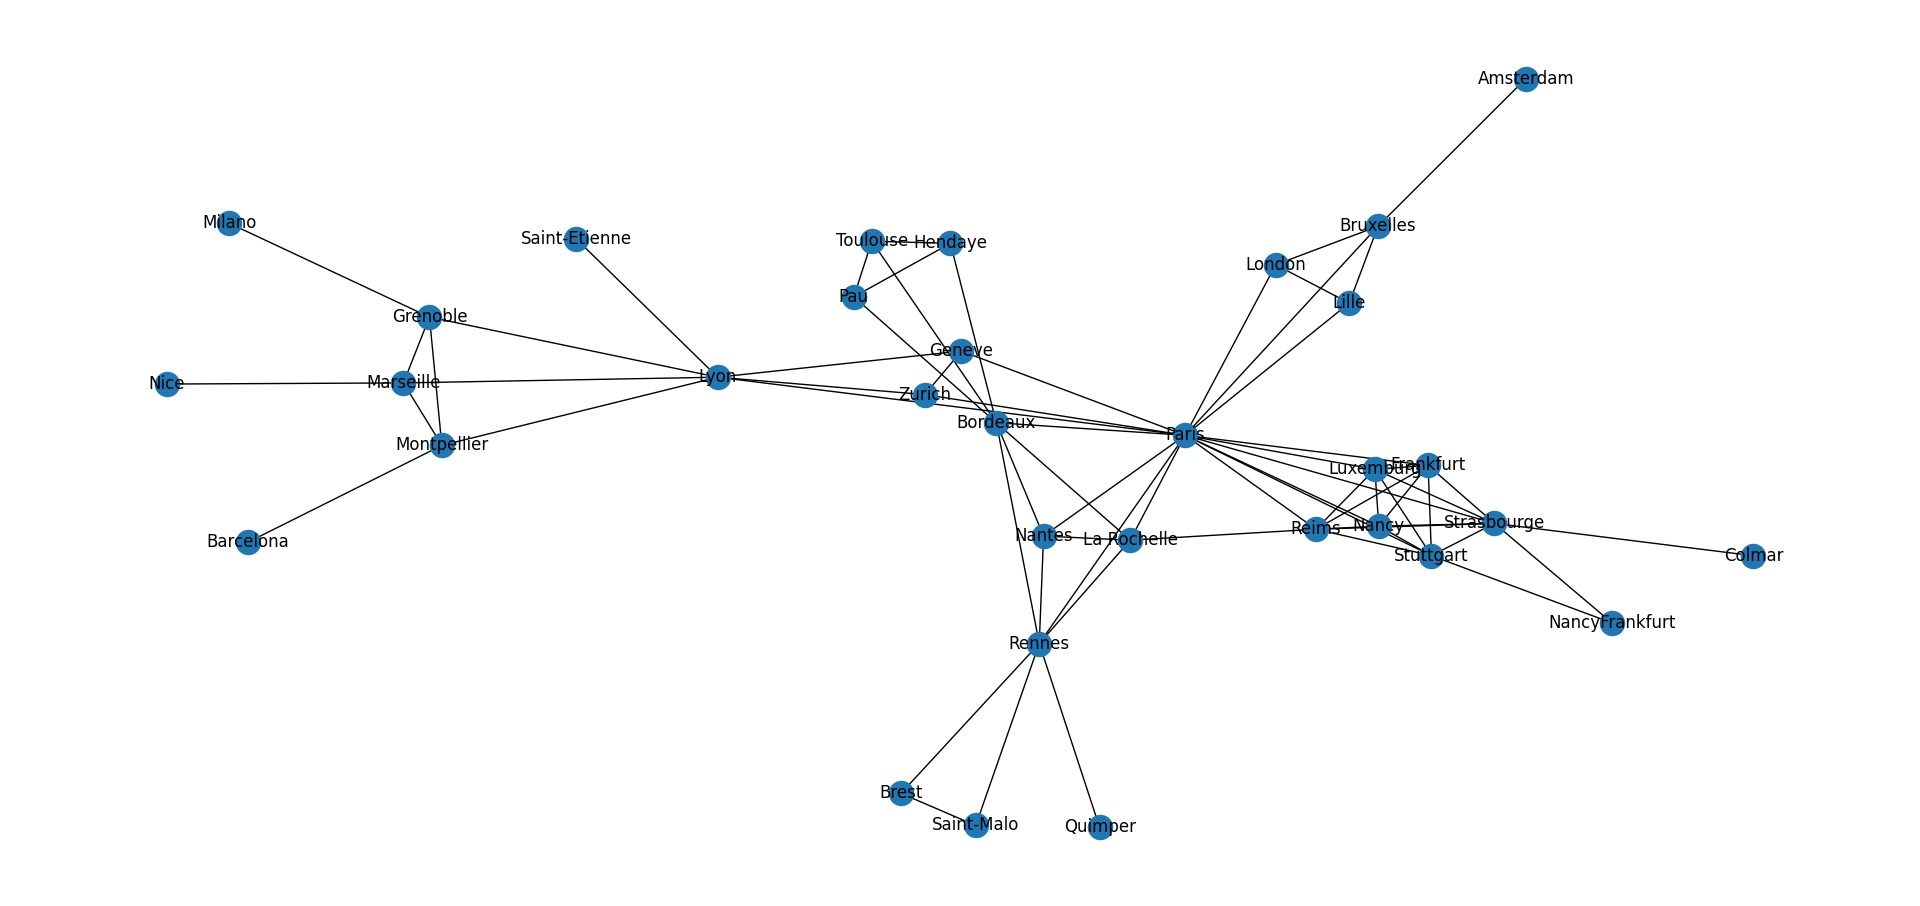
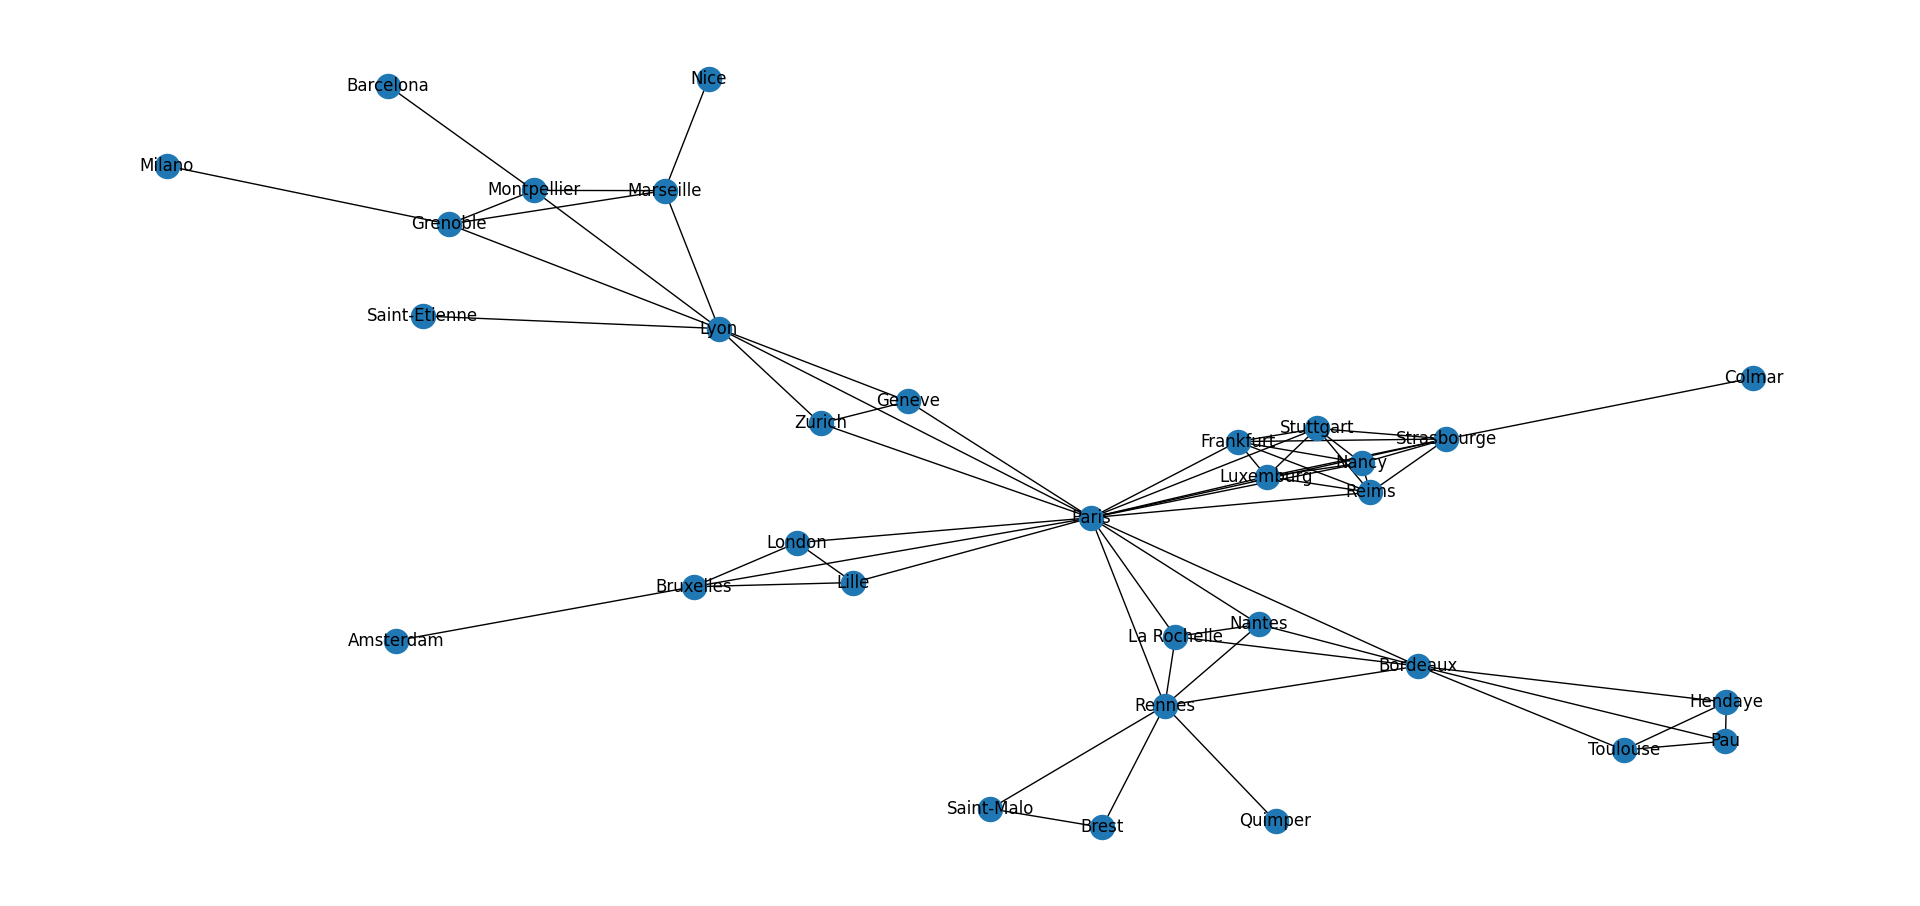
add travel time diagram

diff --git a/dijkstra.py b/dijkstra.py
@@ -235,7 +235,7 @@ def visualize_weighted_graph(weighted_graph):
     nx.draw_networkx_edges(G, pos, edgelist=G.edges(data=True), width=2)
     nx.draw_networkx_labels(G, pos, font_size=12, font_family='sans-serif')
     nx.draw_networkx_edge_labels(G, pos, edge_labels=weights)
-    plt.title('TGV travel time among cities of Europe')
+    plt.title('TGV travel time among cities of Europe, hours')
     plt.show()
 
 weighted_graph = get_weighted_graph()

diff --git a/README.md b/README.md
@@ -1,9 +1,10 @@
 ```
-Vertices quantity in the graph: 33
+Vertices quantity in the graph: 32
 
-Edges quantity in the graph: 68
+Edges quantity in the graph: 65
 
 Vertex Paris has degree 16
+Vertex London has degree 3
 Vertex Lyon has degree 7
 Vertex Marseille has degree 4
 Vertex Montpellier has degree 4
@@ -14,12 +15,12 @@ Vertex Saint-Etienne has degree 1
 Vertex Milano has degree 1
 Vertex Geneve has degree 3
 Vertex Zurich has degree 3
-Vertex Reims has degree 7
+Vertex Reims has degree 6
 Vertex Luxemburg has degree 6
 Vertex Nancy has degree 6
 Vertex Frankfurt has degree 6
-Vertex Stuttgart has degree 7
-Vertex Strasbourge has degree 8
+Vertex Stuttgart has degree 6
+Vertex Strasbourge has degree 7
 Vertex Colmar has degree 1
 Vertex Lille has degree 3
 Vertex Bruxelles has degree 4
@@ -30,22 +31,60 @@ Vertex Brest has degree 2
 Vertex Quimper has degree 1
 Vertex Nantes has degree 4
 Vertex Bordeaux has degree 7
+Vertex La Rochelle has degree 4
 Vertex Toulouse has degree 3
 Vertex Pau has degree 3
 Vertex Hendaye has degree 3
-Vertex London has degree 3
-Vertex La Rochelle has degree 5
-Vertex NancyFrankfurt has degree 2
 ```
 ![alt text](./tgv_graph.png)
 
 ```
-DFS algorithm path:
+DFS algorithm path of TGV rail roads, starting from Marseille city:
+
 Marseille Nice Montpellier Barcelona Grenoble Milano Lyon Saint-Etienne Geneve Paris London Lille Bruxelles Amsterdam Nantes Bordeaux Rennes La Rochelle Saint-Malo Brest Quimper Hendaye Toulouse Pau Reims Strasbourge Luxemburg Nancy Frankfurt Stuttgart Colmar Zurich 
 
-BFS algorithm path
-Marseille Nice Montpellier Lyon Grenoble Barcelona Paris Geneve Saint-Etienne Zurich Milano London Nancy Luxemburg Strasbourge Frankfurt Stuttgart Lille Reims Bruxelles Nantes Rennes La Rochelle Bordeaux Colmar Amsterdam Saint-Malo Quimper Brest Toulouse Hendaye Pau 
+BFS algorithm path of TGV rail roads, starting from Marseille city:
+
+Marseille Nice Montpellier Grenoble Lyon Barcelona Milano Geneve Paris Saint-Etienne Zurich Frankfurt Nancy Bruxelles La Rochelle Lille Luxemburg Stuttgart Rennes London Strasbourge Bordeaux Reims Nantes Amsterdam Brest Quimper Saint-Malo Colmar Toulouse Hendaye Pau 
 ```
 
-https://www.reddit.com/r/TransitDiagrams/comments/loijhs/oc_my_first_transit_diagram_simplified_map_of/#lightbox
-https://www.chronotrains.com/en
+![alt text](./tgv_travel_time.png)
+
+```
+Shortest paths to all destinations in the network of TGV rail roads for Marseille city:
+Paris - 4 hours
+London - 6 hours
+Lyon - 2 hours
+Marseille - 0 hours
+Montpellier - 2 hours
+Barcelona - 5 hours
+Nice - 3 hours
+Grenoble - 3 hours
+Saint-Etienne - 3 hours
+Milano - 7 hours
+Geneve - 4 hours
+Zurich - 6 hours
+Reims - 5 hours
+Luxemburg - 6 hours
+Nancy - 6 hours
+Frankfurt - 8 hours
+Stuttgart - 7 hours
+Strasbourge - 6 hours
+Colmar - 7 hours
+Lille - 5 hours
+Bruxelles - 5 hours
+Amsterdam - 7 hours
+Rennes - 5 hours
+Saint-Malo - 6 hours
+Brest - 7 hours
+Quimper - 7 hours
+Nantes - 6 hours
+Bordeaux - 6 hours
+La Rochelle - 7 hours
+Toulouse - 8 hours
+Pau - 8 hours
+Hendaye - 9 hours
+```
+Sources of data:
+- https://www.reddit.com/r/TransitDiagrams/comments/loijhs/oc_my_first_transit_diagram_simplified_map_of/#lightbox
+- https://www.chronotrains.com/en
